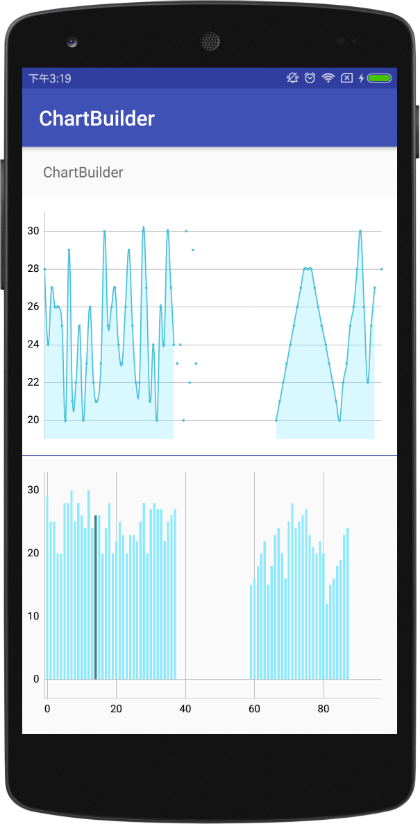
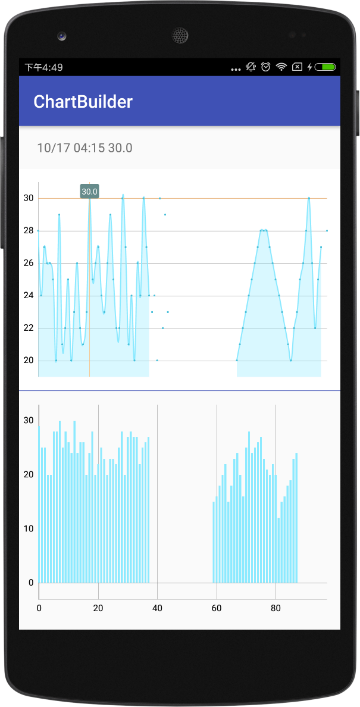
release 0.9.9 1.add marker view.

diff --git a/README.md b/README.md
@@ -11,6 +11,8 @@ ChartBuilder 底层使用[**MPAndroidChart**](https://github.com/PhilJay/MPAndro
 
 3：优化长按事件的响应速度更灵敏。
 
+4：自定义MarkerView
+
 Usage
 -----
 
